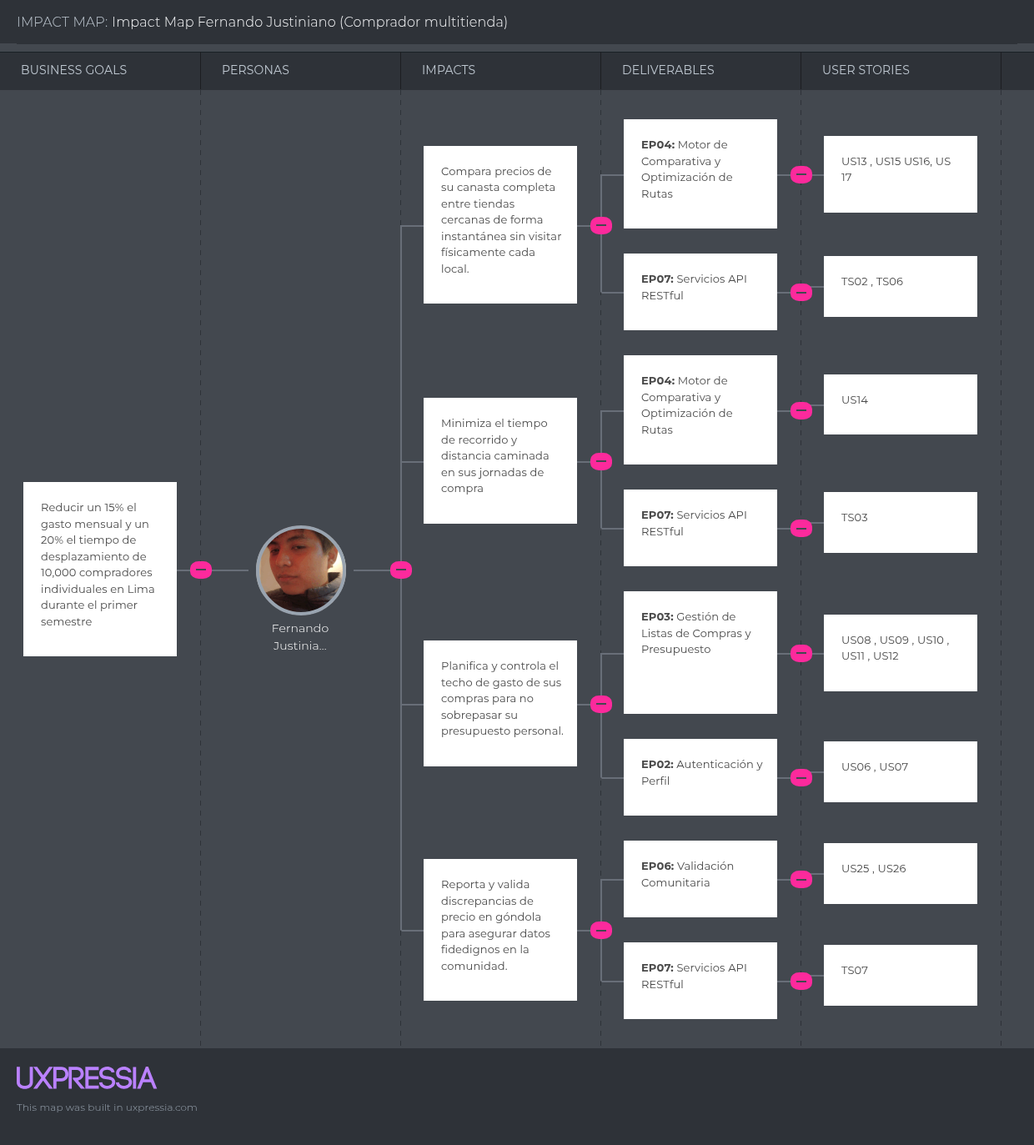
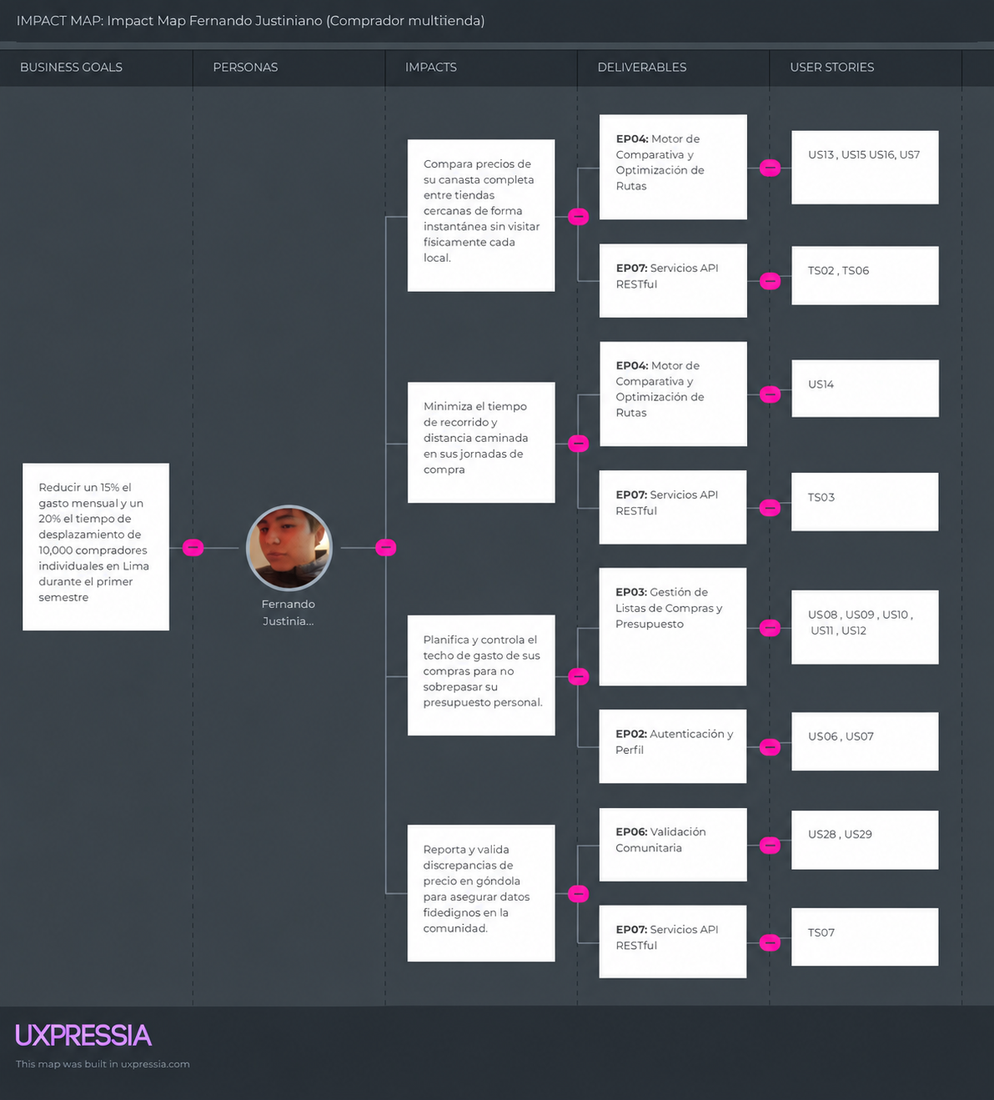
docs(chapter-3): update impact maps, trello evidence and product backlog

diff --git a/docs/informe.md b/docs/informe.md
@@ -201,20 +201,6 @@ Proyecto
 
 # Student Outcome
 
-El curso contribuye al cumplimiento del Student Outcome ABET:
-
-**ABET – EAC - Student Outcome 3**
-
-**Criterio:**  
-
-*Capacidad de comunicarse efectivamente con un rango de audiencias. En el siguiente cuadro se describe las acciones realizadas y enunciados de conclusiones por parte del grupo, que permiten sustentar el haber alcanzado el logro del ABET – EAC - Student Outcome 3.*
-
-| Criterio específico | Acciones realizadas | Conclusiones |
-|---------------------|---------------------|--------------|
-| **Comunica oralmente con efectividad a diferentes rangos de audiencia.** | [Descripción de acciones realizadas] <br> **AV1** <br> [Evidencia] | [Conclusiones] |
-| **Comunica por escrito con efectividad a diferentes rangos de audiencia.** | [Descripción de acciones realizadas] <br> **AV1** <br> [Evidencia] | [Conclusiones] |
-
----
 
 # Capítulo I: Introducción
 
@@ -222,133 +208,23 @@ El curso contribuye al cumplimiento del Student Outcome ABET:
 
 ### 1.1.1. Descripción de la Startup
 
-PeruTech es un equipo de innovación tecnológica integrado por estudiantes de la carrera de Ingeniería de Software. La organización se enfoca en crear soluciones digitales para resolver problemas urbanos cotidianos, principalmente aquellos ligados a la planificación financiera del hogar y la movilidad en la ciudad.
-
-Nuestro proyecto principal nace como una respuesta directa a las dificultades económicas que enfrentan las familias en Lima por el aumento constante de precios. La plataforma busca dar transparencia al mercado minorista, combinando la comparación de precios de productos esenciales con la optimización de rutas de desplazamiento. De esta forma, ayudamos a los consumidores a tomar decisiones de compra más eficientes, ahorrando dinero y tiempo en cada viaje.
-
-*   **Misión:** Apoyar a los hogares de Lima en el control y optimización de su gasto mensual mediante una herramienta digital intuitiva que identifique los precios más bajos y organice los recorridos de compra más convenientes.
-*   **Visión:** Consolidarnos como la plataforma digital líder en compras inteligentes en el Perú, reconocidos por brindar un impacto positivo real en el presupuesto de nuestros usuarios y por nuestra facilidad de uso.
-
 ### 1.1.2. Perfiles de integrantes del equipo
-
-<img src="/assets/foto-Mia.png" width="350" >
-
-Mi nombre es Mía Valentina.
-Poseo experiencia en en el lenguaje C++ y Python, lo que me permite contribuir en el desarrollo de soluciones eficientes. Además, tengo habilidades en la recopilación y análisis de información, lo cual es fundamental para identificar áreas de mejora y optimizar procesos. También tengo conocimientos sobre estructuras de datos, que me permiten organizar y gestionar información de manera efectiva. Mi enfoque se centra en generar soluciones innovadoras y prácticas que aporten valor a los proyectos en los que participo.
-
 
 ## 1.2. Solution Profile
 
 ### 1.2.1. Antecedentes y problemática
-*   **Who? (¿Quién?):**
-    *   *Compradores Independientes:* Jóvenes universitarios, profesionales y adultos independientes (18 a 30 años) con presupuesto acotado y disponibilidad de tiempo reducida que realizan compras frecuentes de menor volumen en establecimientos de cercanía.
-    *   *Administradores del Hogar Familiar:* Padres, madres o encargados del presupuesto doméstico (30 a 55 años) que gestionan listas de compra complejas y de alto volumen (semanales o mensuales) para sus familias y buscan maximizar el ahorro acumulado.
-*   **What? (¿Qué?):** La falta de información clara sobre precios y la ineficiencia al planificar los recorridos de compra en el comercio minorista. Actualmente existe una diferencia marcada entre los precios publicados en internet y los costos reales en los estantes de las tiendas. A esto se suma que las personas no tienen una forma sencilla de comparar el costo total de su lista entre varios comercios cercanos. Esta desconexión genera gastos dobles: se paga más por los productos y se gasta dinero y tiempo extra en desplazamientos mal organizados para intentar conseguir ofertas (BCRP, 2025; INEI, 2026).
-*   **Where? (¿Dónde?):** El problema se concentra en distritos y zonas urbanas de Lima con alta presencia comercial, donde existen múltiples tiendas a pocas cuadras de distancia. La solución está dirigida a personas con acceso a teléfonos inteligentes y a administradores de locales que quieren mejorar la visibilidad de su tienda en su zona cercana.
-*   **When? (¿Cuándo?):** Ocurre cada vez que las familias organizan sus compras de la semana o cuando necesitan reponer productos de manera rápida. La situación se vuelve crítica durante los fines de semana o en días de promociones especiales, cuando el inventario cambia rápido y las ofertas varían sin previo aviso.
-*   **Why? (¿Por qué?):** Principalmente porque los sistemas de información de los grandes comercios son rígidos y no actualizan los precios de cada local en tiempo real para el cliente cercano. Esto hace que el comprador pierda tiempo buscando ofertas que ya no existen, mientras que la tienda pierde clientes potenciales por no comunicar a tiempo sus rebajas o liquidaciones.
-*   **How? (¿Cómo?):** Los usuarios utilizarán la solución en dos momentos: en casa para organizar su lista según su presupuesto, y en la calle para seguir la ruta de compras paso a paso. Por su parte, los administradores de tienda la usarán desde sus computadoras para actualizar precios de productos por vencer y revisar métricas de visitas. La difusión se hará mediante redes sociales, alianzas con comercios y códigos QR en tiendas físicas.
-*   **How much? (¿Cuánto?):** Esta dificultad para ahorrar se da en un contexto donde el costo de la canasta alimentaria mantiene una tendencia al alza en Lima Metropolitana (INEI, 2026). Por esta razón, el 41% de los consumidores prioriza activamente la búsqueda de descuentos (Kantar Worldpanel, 2025). Además, desplazarse entre varias tiendas sin un orden planificado puede incrementar hasta en un 20% los costos de transporte del hogar, un gasto que se puede corregir mediante algoritmos de ruteo eficiente (Sabagh Nejad & Fazekas, 2022).
 
 ### 1.2.2. Lean UX Process
 
-El proceso de Lean UX adoptado por PeruTech busca validar de forma rápida y continua el valor de la plataforma. A través de la iteración constante entre el entendimiento de las necesidades de usuarios y comerciantes, la formulación de supuestos estratégicos y el planteamiento de hipótesis medibles, aseguramos el desarrollo de un producto mínimo viable centrado en resolver ineficiencias reales de tiempo y presupuesto.
-
 #### 1.2.2.1. Lean UX Problem Statements
-
-> **The current state of** retail shopping and grocery planning in Lima Metropolitan Area **has focused mainly on** isolated supermarket discounts, traditional physical price browsing, and delivery apps that charge high service fees without optimizing multi-store routes.  
-> **What existing products/services fail to address is** the lack of a unified system that calculates the true total cost of a shopping trip—combining real-time store prices, multi-stop routing efficiency, and transit expenses—to help shoppers make cost-effective decisions.  
-> **Our product/service will address this gap by** providing a collaborative web platform, **SmartCart**, that processes store prices, inventory updates, transportation costs, and user budget limits to generate the most efficient multi-store shopping route.  
-> **Our initial focus will be** independent young buyers and family household managers in Lima Metropolitan Area.  
-> **We’ll know we are successful when we see** independent buyers and household managers regularly completing multi-store purchases using our generated routes and verified price data.
 
 #### 1.2.2.2. Lean UX Assumptions
 
-##### Assumptions Worksheet
-*   **¿Quién es el usuario?**
-    El sistema atiende a dos perfiles de compradores urbanos: **Compradores Independientes** (jóvenes y profesionales que buscan rapidez y ofertas de cercanía) y **Administradores del Hogar Familiar** (gestores del presupuesto doméstico que planifican compras de mayor volumen).
-*   **¿Dónde encaja nuestro producto en su trabajo o vida?**
-    Para las personas, entra en su rutina cuando preparan la lista del supermercado y cuando salen a hacer las compras. Para el encargado de tienda, se integra en sus labores diarias para dar salida a productos con alto stock.
-*   **¿Qué problemas resuelve nuestro producto?**
-    Elimina la incertidumbre sobre dónde encontrar los precios más bajos y evita viajes innecesarios. A los comercios les resuelve la falta de llegada digital directa hacia los clientes que caminan por su zona.
-*   **¿Cuándo y cómo es usado el producto?**
-    El cliente lo abre en casa para cotizar su lista y en la calle para guiarse de tienda en tienda. El comercio lo utiliza durante el día para publicar ofertas exprés y revisar la llegada de clientes.
-*   **¿Qué características son importantes?**
-    La comparación instantánea de precios, la sugerencia de rutas que no se pasen del presupuesto tope, la opción de que la comunidad confirme los costos reales y un panel sencillo de control para los comercios.
-*   **¿Cómo debe verse nuestro producto y cómo comportarse?**
-    Debe ser una plataforma limpia, moderna y muy rápida para usar en el teléfono. La vista para tiendas debe mostrar gráficos claros y datos útiles para tomar decisiones de venta sin complicaciones.
-
-##### Business Assumptions
-1.  **Creemos que nuestros usuarios necesitan** un servicio digital que evalúe si el dinero que se ahorra en una oferta justifica el gasto y tiempo de ir hasta esa tienda.
-2.  **Estas necesidades se pueden satisfacer mediante** una plataforma web que calcule el costo total de la lista de compras y muestre el recorrido más económico según el medio de transporte del usuario.
-3.  **Nuestros usuarios primarios son** personas que administran los gastos de su hogar y encargados de locales comerciales en áreas urbanas concurridas.
-4.  **El valor principal para el usuario es** pagar menos por su compra total y tardar menos tiempo en la calle; para las tiendas, es atraer clientes de su entorno a través de ofertas puntuales.
-5.  **Generaremos ingresos a través de** planes de suscripción para comercios que deseen promocionar sus productos de forma destacada y acceder a reportes de búsqueda en su zona.
-6.  **Nuestra competencia principal incluye** la búsqueda presencial tradicional, los encartes digitales de una sola marca y los servicios de reparto a domicilio que cobran tarifas adicionales.
-7.  **Nuestra ventaja competitiva radica en** calcular el costo real acumulado (precio de productos más costo de viaje) combinando distintas tiendas en un solo itinerario.
-8.  **El mayor riesgo del producto es** que las oficinas centrales de las cadenas limiten la libertad de los administradores locales para ajustar precios en la plataforma.
-9.  **Mitigaremos este riesgo** demostrando con métricas simples cómo las promociones locales aumentan las ventas y reducen la pérdida de productos en el local.
-
-##### Business Outcome Assumptions
-1.  Conseguir que el 70% de los usuarios registrados realice al menos una compra siguiendo la ruta recomendada durante su primer mes.
-2.  Lograr que más del 40% de los usuarios activos sigan utilizando la plataforma de manera continua mes a mes.
-3.  Demostrar un ahorro efectivo promedio de al menos 15% en el gasto de la canasta de compras de los usuarios.
-4.  Lograr que 6 de cada 10 tiendas participantes confirmen un aumento en la visita de clientes atraídos por las ofertas publicadas.
-
-##### User Assumptions
-1.  **¿Quién es el usuario?** Compradores independientes (18 a 30 años) y administradores del hogar familiar (30 a 55 años) pertenecientes a los niveles socioeconómicos B y C.
-2.  **¿Dónde encaja el producto?** Antes de salir a comprar y durante el recorrido por las tiendas.
-3.  **¿Qué problema resuelve?** Ayuda a elegir la mejor combinación de tiendas sin salirse del presupuesto disponible.
-4.  **¿Cuándo y cómo se usa?** Se consulta 1 o 2 veces por semana al momento de planificar las compras habituales.
-
-##### User Outcome and Benefit Assumptions
-1.  El comprador sabrá exactamente cuánto va a gastar antes de salir de su casa.
-2.  El usuario caminará o viajará solo lo necesario, evitando vueltas innecesarias en la ciudad.
-3.  La tienda logrará vender más rápido los productos con fecha próxima de vencimiento o sobrestock.
-
-##### Feature Assumptions
-1.  **Comparador de Canasta Integral:** Creemos que permitir al usuario armar su lista completa y cruzarla entre varias tiendas mostrará claramente dónde conviene comprar.
-2.  **Calculador de Ruta con Límite de Gasto:** Creemos que sugerir itinerarios respetando el presupuesto máximo fijado evitará sorpresas al momento de pagar.
-3.  **Validación de Precios por Usuarios:** Creemos que permitir que los mismos compradores confirmen si el precio del estante es correcto mantendrá la información confiable.
-4.  **Panel de Ofertas para Comercio:** Creemos que dar una herramienta rápida a los comercios para publicar promociones temporales aumentará el ingreso de personas a sus locales.
-
 #### 1.2.2.3. Lean UX Hypothesis Statements
-*   **Hypothesis Statement 1 (basado en Feature Assumption 1: Comparador de Canasta Integral):**
-    *   **We believe we will achieve** a 15% reduction in overall monthly grocery spending and a platform user retention rate above 40%
-    *   **If** family household managers handling high-volume shopping lists
-    *   **Attain** an accurate, pre-calculated total cost of their entire basket across multiple nearby stores
-    *   **With** a comprehensive multi-store basket comparison engine (**Comparador de Canasta Integral**).
-
-*   **Hypothesis Statement 2 (basado en Feature Assumption 2: Calculador de Ruta con Límite de Gasto):**
-    *   **We believe we will achieve** an average reduction of 25% in total shopping trip duration
-    *   **If** independent young buyers with limited free time and mobility preferences
-    *   **Attain** optimized multi-stop shopping itineraries that strictly respect their maximum budget limit and travel mode
-    *   **With** an interactive route calculator with budget caps (**Calculador de Ruta con Límite de Gasto**).
-
-*   **Hypothesis Statement 3 (basado en Feature Assumption 3: Validador de Precios por Usuarios):**
-    *   **We believe we will achieve** an 80% price verification accuracy rate between reported shelf prices and actual checkout counter costs
-    *   **If** active users from both independent and household manager segments
-    *   **Attain** high trust in platform data accuracy and recognition for contributing real-time price reports
-    *   **With** a crowd-sourced price reporting and verification system (**Validador de Precios por Usuarios**).
-
-*   **Hypothesis Statement 4 (basado en Feature Assumption 4: Panel de Ofertas para Comercio):**
-    *   **We believe we will achieve** a 20% increase in store foot traffic from nearby buyers looking for immediate discounts
-    *   **If** independent buyers seeking short-term deals and promotions
-    *   **Attain** real-time visibility of local store offers within their immediate geographic perimeter
-    *   **With** a fast-publishing promotion dashboard for store managers (**Panel de Ofertas para Comercio**).
 
 #### 1.2.2.4. Lean UX Canvas
 
-<img src="/assets/lean-ux-canvas.png" alt="UPC Logo" width="150"/>
-
 ## 1.3. Segmentos objetivo
-### 1. Compradores Independientes
-Este segmento comprende a jóvenes universitarios, jóvenes profesionales y adultos solteros (de 18 a 30 años) pertenecientes a los niveles socioeconómicos B y C que viven solos o comparten vivienda. Se caracterizan por realizar compras de volumen bajo o medio de manera frecuente y por contar con un tiempo limitado para el abastecimiento. Sus decisiones de compra están fuertemente guiadas por la conveniencia geográfica, el aprovechamiento de descuentos inmediatos y la optimización de sus traslados, desplazándose principalmente a pie o mediante transporte público. Para este grupo, la plataforma resuelve la falta de tiempo y la incertidumbre de precios en establecimientos de proximidad.
-
-### 2. Administradores del Hogar Familiar
-Este grupo está integrado por padres, madres o responsables de la economía doméstica (de 30 a 55 años) en hogares de los niveles socioeconómicos B y C. Su perfil se distingue por gestionar canastas de compra complejas y de volumen elevado (semanales o mensuales), donde pequeñas variaciones de costo unitario representan un impacto significativo en el presupuesto familiar. Tienen una alta disposición a planificar sus recorridos con anticipación y a visitar más de un establecimiento si el ahorro neto justificara el desplazamiento. Para este segmento, la plataforma actúa como una herramienta de control financiero y eficiencia logística.
-
----
 
 # Capítulo II: Requirements Elicitation & Analysis
 
@@ -414,9 +290,18 @@ Este grupo está integrado por padres, madres o responsables de la economía dom
 
 ## 3.1. User Stories
 
-En esta sección se especifican los requisitos funcionales y técnicos del sistema mediante Epics y User Stories, derivados de los hallazgos cualitativos del proceso de Needfinding y del análisis del dominio del problema. La redacción sigue el enfoque de desarrollo centrado en el usuario, estructurando cada descripción bajo el estándar de rol, necesidad y beneficio. 
+En esta sección se especifican los requisitos funcionales y técnicos de la plataforma **Preciazo** (desarrollada por **PeruTech**) mediante Epics, User Stories y Technical Stories, derivados de los hallazgos cualitativos del proceso de Needfinding, las entrevistas a usuarios y el modelado del dominio de negocio. La redacción sigue el enfoque de diseño centrado en el usuario, estructurando cada descripción bajo el estándar formal de rol, necesidad y beneficio (*"Como [rol], deseo [necesidad] para [beneficio]"*).
 
-Asimismo, los criterios de aceptación se definen bajo la sintaxis formal de Gherkin (Given-When-Then), redactados en tercera persona y prescindiendo de detalles de interfaz gráfica (como botones, pantallas o clics), asegurando su comprobabilidad tanto en la experiencia web interactiva como en los contratos de servicio del RESTful API.
+Asimismo, los criterios de aceptación se definen bajo la sintaxis formal de Gherkin (*Given-When-Then*), redactados en tiempo presente, tercera persona y prescindiendo de detalles de interfaz gráfica (como botones, pantallas o clics), asegurando su comprobabilidad tanto en la experiencia web interactiva como en los contratos de servicio del RESTful API.
+
+A continuación, se definen los Epics identificados que agrupan funcionalmente los requisitos del sistema:
+* **EP01: Plataforma Informativa y Landing Page:** Difusión pública del servicio, propuesta de valor y captación de visitantes.
+* **EP02: Gestión de Identidad y Perfiles:** Registro, autenticación y configuración de preferencias para compradores y comercios.
+* **EP03: Planificación y Control Presupuestario:** Elaboración de listas de compras y control financiero preventivo en tiempo real.
+* **EP04: Comparación de Mercado y Ruteo Inteligente:** Comparativa multiestablecimiento, optimización de traslados y bienes sustitutos.
+* **EP05: Gestión de Ofertas y Catálogo Minorista:** Administración simplificada de precios, promociones y existencias para comercios barriales.
+* **EP06: Inteligencia Colectiva y Moderación Comunitaria:** Verificación colaborativa de precios en góndola y reporte de discrepancias.
+* **EP07: Núcleo de Servicios Backend y RESTful API:** Servicios de backend, endpoints de integración y reglas de persistencia.
 
 | Epic / Story ID | Título | Descripción | Criterios de Aceptación | Relacionado con (Epic ID) |
 | :--- | :--- | :--- | :--- | :--- |
@@ -458,68 +343,145 @@ Asimismo, los criterios de aceptación se definen bajo la sintaxis formal de Ghe
 | **TS07** | API de registro de eventos de reporte | Como Developer, deseo implementar un endpoint para almacenar las confirmaciones y discrepancias emitidas por los usuarios sobre los precios. | **Escenario 1: Registro de reporte comunitario.**<br>Dado un requerimiento POST a `/api/v1/reports/prices` con el ID del producto, ID de tienda y nuevo precio, cuando el servicio procesa la solicitud, entonces persiste el reporte y responde con un código HTTP 201 Created.<br><br>**Escenario 2: Reporte duplicado en ventana temporal.**<br>Dado un usuario que intenta emitir múltiples reportes sobre el mismo artículo en menos de 60 segundos, cuando el filtro de seguridad lo detecta, entonces responde con un código HTTP 429 Too Many Requests. | EP07 |
 | **TS08** | API de gestión de promociones de tienda | Como Developer, deseo implementar endpoints CRUD para la administración del ciclo de vida de ofertas emitidas por comerciantes. | **Escenario 1: Creación de promoción.**<br>Dado un requerimiento POST a `/api/v1/promotions` con artículo, precio y vigencia, cuando el servicio confirma la titularidad del local, entonces crea la oferta y responde con un código HTTP 201 Created.<br><br>**Escenario 2: Vigencia incoherente.**<br>Dado un requerimiento cuya fecha de fin es anterior a la fecha de inicio, cuando el modelo valida los datos, entonces responde con un código HTTP 422 Unprocessable Entity. | EP07 |
 
-
 ## 3.2. Impact Mapping
-### Segmento #1 : Comprador Independiente
-<img src="/assets/Impact-Map Fernando-Justiniano-(Comprador-multitienda).png" width=850 />
 
-### Segmento #2 : Administrador del Hogar
-<img src="/assets/Impact-Map-Maria-Salvador-(Comerciante-Minorista).png" width=850 />
+En esta sección se presenta el *Impact Mapping* desarrollado para alinear los objetivos estratégicos de negocio con las capacidades funcionales de la plataforma **Preciazo** de **PeruTech**. Mediante este artefacto visual se establece la trazabilidad formal entre los objetivos medibles de la organización (*Business Goals* formulados bajo el estándar SMART), los actores clave (*Actors/Personas*), los cambios esperados de comportamiento (*Impacts*), las entregas o soluciones de software (*Deliverables*) y las historias de usuario asociadas en formato canónico (*User Stories*).
 
-## 3.3. Product Backlog     
-| # Orden | User Story Id | Título | Descripción | Story Points (1 / 2 / 3 / 5 / 8) |
-|---|---|---|---|---|
-| 1 | US01 | Landing: Propuesta de valor | Como visitante, quiero ver cómo la plataforma optimiza el gasto y la ruta para ahorrar dinero y tiempo. | 1 |
-| 2 | US02 | Landing: Segmentos Objetivo | Como visitante, quiero identificar si la plataforma está diseñada para mis necesidades de compra. | 1 |
-| 3 | US03 | Landing: Comercios Aliados | Como visitante, quiero ver qué cadenas y bodegas están registradas para saber si mis tiendas cercanas participan. | 1 |
-| 4 | US04 | Landing: Registro de Interés | Como visitante, quiero dejar mi correo para recibir notificaciones del lanzamiento. | 2 |
-| 5 | US05 | Registro: Cuenta Personal | Como comprador independiente, quiero crear una cuenta usando mi correo para guardar mis rutas peatonales habituales. | 3 |
-| 6 | US06 | Registro: Shared Household | Como administrador del hogar, quiero vincular mi cuenta con otros miembros de mi familia para coordinar las compras de la casa. | 5 |
-| 7 | US07 | Registro: Selección de Tiendas Favoritas | Como comprador independiente, quiero guardar mis bodegas y tiendas de conveniencia habituales para recibir alertas de sus promociones. | 2 |
-| 8 | US08 | Login de Sistema | Como comprador independiente, quiero iniciar sesión de forma rápida para acceder a mis listas y presupuesto guardado. | 2 |
-| 9 | US09 | Pantry Stock: Agregar Ítem | Como administrador del hogar, quiero registrar productos en la despensa familiar para controlar el inventario de la casa. | 3 |
-| 10 | US10 | Pantry Stock: Lector de Códigos | Como administrador del hogar, quiero escanear el código de barras de los productos comprados para ingresarlos rápidamente a la despensa. | 5 |
-| 11 | US11 | Pantry Stock: Producto Agotado | Como administrador del hogar, quiero marcar un producto como agotado para reponerlo en la siguiente compra familiar. | 2 |
-| 12 | US12 | Pantry Stock: Alerta de Caducidad | Como administrador del hogar, quiero recibir alertas sobre productos próximos a vencer para evitar el desperdicio de alimentos en casa. | 3 |
-| 13 | US13 | Shopping List: Creación Básica | Como comprador independiente, quiero crear listas de compras rápidas para organizar mis faltantes de la semana. | 2 |
-| 14 | US14 | Shopping List: Desde Despensa | Como administrador del hogar, quiero que los ítems agotados de la despensa pasen automáticamente a la lista familiar. | 3 |
-| 15 | US15 | Budget Limit: Configuración | Como comprador independiente, quiero fijar un límite presupuestario quincenal para no gastar de más en mis compras de volumen bajo. | 2 |
-| 16 | US16 | Shopping List: Compras Recurrentes | Como administrador del hogar, quiero guardar mi canasta mensual como plantilla para no reescribir la lista compleja cada mes. | 3 |
-| 17 | US17 | Budget Limit: Alerta de Exceso | Como comprador independiente, quiero recibir una alerta cuando el total de mi lista supere el presupuesto fijado. | 3 |
-| 18 | US18 | Price Benchmark: Búsqueda Rápida | Como comprador independiente, quiero buscar un artículo específico para saber al instante en qué tienda cercana está más barato. | 3 |
-| 19 | US19 | Price Benchmark: Comparador Integral | Como administrador del hogar, quiero comparar mi canasta familiar completa entre varios supermercados para encontrar el menor costo total. | 8 |
-| 20 | US20 | Price Benchmark: Historial de Precios | Como administrador del hogar, quiero ver el historial de precios de un producto para verificar si la oferta del supermercado es real. | 5 |
-| 21 | US21 | Price Benchmark: Marcas Sustitutas | Como comprador independiente, quiero recibir sugerencias de marcas equivalentes más económicas para reducir el total de mi compra diaria. | 5 |
-| 22 | US22 | Price Benchmark: Filtro por Radio | Como comprador independiente, quiero filtrar precios dentro de un radio caminable para no alejarme demasiado de mi zona. | 3 |
-| 23 | US23 | Rutas: Optimización Peatonal | Como comprador independiente, quiero obtener la ruta a pie más corta entre bodegas y supermercados para optimizar mis traslados. | 8 |
-| 24 | US24 | Rutas: Optimización Vehicular | Como administrador del hogar, quiero una ruta en auto eficiente que conecte múltiples comercios para concretar la compra familiar. | 8 |
-| 25 | US25 | Aisle Routing: Orden de Pasillos | Como comprador independiente, quiero que mi lista se ordene por pasillos del local para realizar mi compra en el menor tiempo posible. | 5 |
-| 26 | US26 | Shopping Run: Modo Compra | Como administrador del hogar, quiero activar el modo de compra interactivo para ir tachando los productos en el carrito de supermercado. | 5 |
-| 27 | US27 | Shopping Run: Consolidación de Gasto | Como comprador independiente, quiero finalizar la jornada de compra para restar el monto gastado de mi presupuesto disponible. | 3 |
-| 28 | US28 | Rutas: Recálculo en Vivo | Como administrador del hogar, quiero recalcular la ruta si encuentro una tienda cerrada para no perder tiempo en el recorrido vehicular. | 8 |
-| 29 | US29 | Crowdsourcing: Reportar Error | Como comprador independiente, quiero reportar si el precio en la góndola no coincide con el de la app para ayudar a la comunidad. | 3 |
-| 30 | US30 | Crowdsourcing: Subir Evidencia | Como comprador independiente, quiero subir una foto del precio en etiqueta para validar mis reportes de la comunidad. | 5 |
-| 31 | US31 | Crowdsourcing: Votación de Precios | Como comprador independiente, quiero confirmar los precios reportados por otros usuarios para mantener la plataforma actualizada. | 3 |
-| 32 | US32 | Crowdsourcing: Gamificación | Como comprador independiente, quiero acumular puntos y medallas por mis aportes para obtener reconocimiento en la plataforma. | 5 |
-| 33 | US33 | Exploración: Descuentos de Proximidad | Como comprador independiente, quiero ver los productos en liquidación en comercios cercanos para aprovechar promociones relámpago. | 3 |
-| 34 | US34 | Notificaciones: Ofertas Flash | Como comprador independiente, quiero recibir alertas inmediatas sobre ofertas relámpago en tiendas cercanas para comprar con mayor descuento. | 5 |
-| 35 | US35 | Filtros: Disponibilidad de Stock | Como administrador del hogar, quiero verificar que las tiendas de mi ruta tengan stock disponible para no hacer viajes en vano. | 3 |
-| 36 | US36 | Alertas: Inconsistencia de Datos | Como comprador independiente, quiero ver si un precio reportado tiene advertencia de imprecisión antes de trasladarme a la tienda. | 3 |
-| 37 | US37 | Seguridad: Sesión Persistente | Como comprador independiente, quiero mantener mi sesión iniciada para acceder rápido a mi lista al estar en la tienda. | 3 |
-| 38 | US38 | Exploración: Carga Fluida | Como administrador del hogar, quiero navegar de forma fluida por el catálogo extenso para armar la lista familiar sin interrupciones. | 5 |
-| 39 | US39 | Lista de Compras: Sincronización Automática | Como comprador independiente, quiero que mis cambios en la lista se guarden automáticamente en la nube para no perder mis productos. | 5 |
-| 40 | US40 | Rutas: Alerta de Tráfico | Como administrador del hogar, quiero recibir alertas de tráfico en mi ruta vehicular para cambiar el orden de las tiendas. | 5 |
-| 41 | US41 | Notificaciones: Bajada de Precios | Como comprador independiente, quiero recibir alertas cuando un producto de mi lista baje de precio en un comercio cercano. | 5 |
-| 42 | US42 | Comunidad: Mis Reportes | Como comprador independiente, quiero consultar el historial de mis aportes comunitarios para saber cuáles fueron aprobados. | 2 |
-| 43 | US43 | UX: Manejo de Errores | Como comprador independiente, quiero ver mensajes claros si pierdo la conexión a internet para saber cómo reintentar mi búsqueda. | 2 |
-| 44 | US44 | Despensa: Sincronización en Tiempo Real | Como administrador del hogar, quiero que las actualizaciones de la despensa se reflejen al instante en los teléfonos de mi familia para no duplicar compras. | 5 |
-| 45 | US45 | Tendencias: Lo Más Buscado en la Zona | Como administrador del hogar, quiero ver los productos más buscados con descuento en mi distrito para aprovechar las tendencias de ahorro local. | 5 |
-| 46 | US46 | Rutas: Tiempos de Traslado | Como comprador independiente, quiero ver la distancia y tiempo estimado a pie versus transporte público para elegir el medio de viaje. | 3 |
-| 47 | US47 | Privacidad: Control de Ubicación | Como comprador independiente, quiero activar o desactivar la ubicación en segundo plano para controlar mi privacidad y consumo de batería. | 2 |
-| 48 | US48 | Shopping List: Modo Offline | Como administrador del hogar, quiero poder tachar e ingresar productos en mi lista aunque no tenga señal dentro del supermercado. | 5 |
-| 49 | US49 | Price Benchmark: Exportar a WhatsApp | Como comprador independiente, quiero exportar mi lista optimizada a WhatsApp para compartirla con mi compañero de departamento. | 3 |
-| 50 | US50 | Pantry Stock: Consumo Histórico | Como administrador del hogar, quiero ver gráficos de mis gastos e inventario de los últimos 3 meses para evaluar el ahorro del hogar. | 5 |
+### Business Goals del Proyecto (Criterios SMART)
+* **BG01:** Reducir en un 15% el gasto promedio quincenal de canasta básica y en un 20% el tiempo invertido en desplazamientos para 10,000 compradores urbanos independientes en Lima Metropolitana durante los primeros 6 meses de operación.
+* **BG02:** Incrementar la base de retención activa mensual (MAU) de compradores al 35% en los primeros 4 meses mediante el uso de listas de compras con presupuesto dinámico.
+* **BG03:** Afiliar a 500 comercios minoristas locales (bodegas y minimarkets) en distritos de alta densidad comercial durante los primeros 6 meses, logrando que al menos el 60% actualice su catálogo semanalmente.
+* **BG04:** Incrementar en un 20% la rotación de mercancías y liquidaciones en tiendas de proximidad afiliadas durante el primer trimestre de suscripción activa.
+
 ---
+
+### 3.2.1. Impact Mapping - Segmento #1: Comprador Independiente
+
+Este mapa articula cómo el actor **Fernando Justiniano** colabora en la consecución de las metas de ahorro, reducción de tiempos y fidelización del comprador.
+
+<img src="../assets/Impact-Map Fernando-Justiniano-(Comprador-multitienda).png" width="850" />
+
+*Figura 3.1: Impact Mapping para el Segmento Comprador Independiente.*
+
+#### Desglose de Relaciones y User Stories Asociadas:
+* **Impacto 1: Compara precios de su canasta completa entre tiendas cercanas de forma instantánea sin visitar físicamente cada local.**
+  * *Deliverable: EP04 - Motor de Comparativa y Optimización de Rutas.*
+    * **US13:** Como comprador independiente, deseo comparar el costo total de mi lista entre locales comerciales cercanos para identificar el menor costo de compra.
+    * **US15:** Como comprador independiente, deseo recibir recomendaciones de productos alternativos más económicos para disminuir el monto total a pagar.
+    * **US16:** Como comprador independiente, deseo comparar el costo por unidad de medida (kilogramo o litro) para evaluar presentaciones con distinto gramaje.
+    * **US17:** Como comprador independiente, deseo filtrar comercios dentro de un radio caminable específico para evitar traslados excesivamente largos.
+  * *Deliverable: EP07 - Servicios API RESTful.*
+    * **TS02:** Como Developer, deseo proveer un endpoint para computar el costo total de una lista de productos en los comercios registrados en un radio geográfico.
+    * **TS06:** Como Developer, deseo proveer un endpoint con paginación para consultar artículos disponibles por categoría y distrito.
+
+* **Impacto 2: Minimiza el tiempo de recorrido y distancia caminada en sus jornadas de compra.**
+  * *Deliverable: EP04 - Motor de Comparativa y Optimización de Rutas.*
+    * **US14:** Como comprador independiente, deseo obtener un itinerario secuencial de paradas óptimas para reducir mi tiempo de traslado y costo de transporte.
+  * *Deliverable: EP07 - Servicios API RESTful.*
+    * **TS03:** Como Developer, deseo proveer un endpoint que ordene una secuencia de establecimientos según eficiencia de traslado.
+
+* **Impacto 3: Planifica y controla el techo de gasto de sus compras para no sobrepasar su presupuesto personal.**
+  * *Deliverable: EP03 - Gestión de Listas de Compras y Presupuesto.*
+    * **US08:** Como comprador independiente, deseo crear una lista de productos requeridos para estructurar mi jornada de abastecimiento.
+    * **US09:** Como comprador independiente, deseo buscar y agregar artículos específicos a mi lista para consolidar mi canasta básica.
+    * **US10:** Como comprador independiente, deseo configurar un tope de gasto para mi lista de compras para controlar mi economía personal.
+    * **US11:** Como comprador independiente, deseo recibir una advertencia cuando la sumatoria de mi lista supere el presupuesto establecido para ajustar mi selección.
+    * **US12:** Como comprador independiente, deseo marcar los artículos conforme los coloco en mi canasta para verificar el gasto acumulado en tiempo real.
+  * *Deliverable: EP02 - Autenticación y Perfil.*
+    * **US06:** Como comprador independiente, deseo iniciar sesión con mis credenciales registradas para gestionar mis listas y presupuesto.
+    * **US07:** Como comprador independiente, deseo guardar mis establecimientos de confianza para priorizar sus ofertas en mis consultas diarias.
+
+* **Impacto 4: Reporta y valida discrepancias de precio en góndola para asegurar datos fidedignos en la comunidad.**
+  * *Deliverable: EP06 - Validación Comunitaria.*
+    * **US28:** Como comprador independiente, deseo reportar cuando un precio en góndola difiere del valor registrado en el sistema para colaborar con la comunidad.
+    * **US29:** Como comprador independiente, deseo validar los reportes de precios efectuados por otros usuarios para consolidar la confiabilidad de la información.
+  * *Deliverable: EP07 - Servicios API RESTful.*
+    * **TS07:** Como Developer, deseo implementar un endpoint para almacenar las confirmaciones y discrepancias emitidas por los usuarios sobre los precios.
+
+---
+
+### 3.2.2. Impact Mapping - Segmento #2: Comerciante Minorista
+
+Este mapa articula cómo el actor **Daniel Palomino** contribuye a alcanzar las metas de digitalización barrial, captación de clientela y rotación de stock.
+
+<img src="../assets/Impact-Map-Daniel-Palomino-(Comerciante-minorista).jpeg" width="850" />
+
+*Figura 3.2: Impact Mapping para el Segmento Comerciante Minorista.*
+
+#### Desglose de Relaciones y User Stories Asociadas:
+* **Impacto 1: Registra y formaliza la presencia de su local en el mapa comercial para ser visible ante los compradores de su zona.**
+  * *Deliverable: EP02 - Autenticación y Perfil.*
+    * **US21:** Como comerciante minorista, deseo registrar los datos de mi establecimiento para integrar mi negocio al mapa comercial de la plataforma.
+    * **US22:** Como comerciante minorista, deseo indicar los horarios de atención de mi local para que los compradores conozcan cuándo pueden acudir.
+  * *Deliverable: EP07 - Servicios API RESTful.*
+    * **TS04:** Como Developer, deseo integrar un servicio de verificación de RUC contra entidades oficiales para constatar la vigencia legal de los comercios afiliados.
+
+* **Impacto 2: Mantiene actualizado su catálogo de precios y stock de forma ágil para no perder ventas ni generar falsas expectativas.**
+  * *Deliverable: EP05 - Catálogo y Gestión Comercial.*
+    * **US23:** Como comerciante minorista, deseo registrar y actualizar los precios de venta de mis productos para mantener informados a los compradores de la zona.
+    * **US25:** Como comerciante minorista, deseo marcar artículos sin disponibilidad física en mi local para evitar desplazamientos infructuosos de los clientes.
+    * **US26:** Como comerciante minorista, deseo importar una lista estructurada de artículos y precios para actualizar mi inventario de forma ágil.
+  * *Deliverable: EP07 - Servicios API RESTful.*
+    * **TS05:** Como Developer, deseo proveer un endpoint para la actualización en bloque de inventario de tiendas mediante solicitudes en formato JSON.
+
+* **Impacto 3: Lanza promociones relámpago e incentivos para acelerar la rotación de artículos y reducir mermas en tiendas de proximidad.**
+  * *Deliverable: EP05 - Catálogo y Gestión Comercial.*
+    * **US24:** Como comerciante minorista, deseo publicar promociones por tiempo limitado para acelerar la rotación de artículos y atraer mayor afluencia.
+  * *Deliverable: EP07 - Servicios API RESTful.*
+    * **TS08:** Como Developer, deseo implementar endpoints CRUD para la administración del ciclo de vida de ofertas emitidas por comerciantes.
+
+* **Impacto 4: Evalúa el impacto de sus precios e interacción recibida en las rutas de compra de los vecinos para optimizar su estrategia comercial.**
+  * *Deliverable: EP05 - Catálogo y Gestión Comercial.*
+    * **US27:** Como comerciante minorista, deseo consultar métricas de visualización de mis promociones para evaluar el impacto de mis precios publicados.
+
+
+## 3.3. Product Backlog
+
+En esta sección se presenta el *Product Backlog* priorizado y estimado para la plataforma **Preciazo**, desarrollado por **PeruTech**. La priorización de los requisitos responde estrictamente al valor entregado al negocio y a los usuarios (*Business Value First*). Cumpliendo con los lineamientos del marco de trabajo Scrum y las directivas académicas, las historias vinculadas a la Landing Page se sitúan al inicio para viabilizar la captación temprana de usuarios en el primer sprint. Posteriormente, se integran las funcionalidades nucleares de cálculo comparativo de canasta, optimización de trayectos y gestión comercial para bodegas y minimarkets, relegando las tareas de autenticación y parametrización avanzada a etapas posteriores.
+
+La estimación del esfuerzo de cada ítem fue establecida mediante la dinámica de *Planning Poker*, aplicando la secuencia estándar de Fibonacci para Story Points (1, 2, 3, 5 y 8 SP).
+
+| # Orden | User Story Id | Título | Descripción | Story Points (1 / 2 / 3 / 5 / 8) |
+| :---: | :---: | :--- | :--- | :---: |
+| 1 | **US01** | Landing: Propuesta de valor | Como visitante, deseo visualizar la propuesta central del servicio para comprender cómo optimizar mis compras y tiempos de traslado. | 1 |
+| 2 | **US02** | Landing: Segmentos objetivo | Como visitante, deseo conocer a qué perfiles está orientada la solución para identificar si resuelve mis necesidades de abastecimiento o comercio. | 1 |
+| 3 | **US03** | Landing: Red de comercios aliados | Como visitante, deseo visualizar qué establecimientos y zonas cuentan con cobertura para verificar la disponibilidad del servicio. | 1 |
+| 4 | **US04** | Landing: Registro de interés | Como visitante, deseo suscribir mi correo electrónico para recibir notificaciones sobre el lanzamiento y novedades de la plataforma. | 2 |
+| 5 | **US05** | Landing: Preguntas frecuentes y soporte | Como visitante, deseo consultar una sección de preguntas frecuentes para aclarar el modelo de servicio y los canales de contacto. | 2 |
+| 6 | **US13** | Comparativa multiestablecimiento | Como comprador independiente, deseo comparar el costo total de mi lista entre locales comerciales cercanos para identificar el menor costo de compra. | 8 |
+| 7 | **US14** | Cálculo de ruta de compra eficiente | Como comprador independiente, deseo obtener un itinerario secuencial de paradas óptimas para reducir mi tiempo de traslado y costo de transporte. | 8 |
+| 8 | **US17** | Búsqueda por filtros de proximidad | Como comprador independiente, deseo filtrar comercios dentro de un radio caminable específico para evitar traslados excesivamente largos. | 3 |
+| 9 | **US15** | Sugerencia de bienes sustitutos | Como comprador independiente, deseo recibir recomendaciones de productos alternativos más económicos para disminuir el monto total a pagar. | 5 |
+| 10 | **US16** | Comparación por unidad de medida | Como comprador independiente, deseo comparar el costo por unidad de medida (kilogramo o litro) para evaluar presentaciones con distinto gramaje. | 3 |
+| 11 | **US21** | Registro y afiliación de tienda | Como comerciante minorista, deseo registrar los datos de mi establecimiento para integrar mi negocio al mapa comercial de la plataforma. | 5 |
+| 12 | **US23** | Publicación de precios en catálogo | Como comerciante minorista, deseo registrar y actualizar los precios de venta de mis productos para mantener informados a los compradores de la zona. | 5 |
+| 13 | **US24** | Publicación de ofertas de tienda | Como comerciante minorista, deseo publicar promociones por tiempo limitado para acelerar la rotación de artículos y atraer mayor afluencia. | 3 |
+| 14 | **US25** | Reporte de agotamiento de stock | Como comerciante minorista, deseo marcar artículos sin disponibilidad física en mi local para evitar desplazamientos infructuosos de los clientes. | 2 |
+| 15 | **US22** | Configuración de horarios comerciales | Como comerciante minorista, deseo indicar los horarios de atención de mi local para que los compradores conozcan cuándo pueden acudir. | 2 |
+| 16 | **US08** | Creación de lista de compras | Como comprador independiente, deseo crear una lista de productos requeridos para estructurar mi jornada de abastecimiento. | 2 |
+| 17 | **US09** | Agregado de ítems a la lista | Como comprador independiente, deseo buscar y agregar artículos específicos a mi lista para consolidar mi canasta básica. | 3 |
+| 18 | **US10** | Fijación de presupuesto límite | Como comprador independiente, deseo configurar un tope de gasto para mi lista de compras para controlar mi economía personal. | 2 |
+| 19 | **US11** | Alerta de rebase presupuestario | Como comprador independiente, deseo recibir una advertencia cuando la sumatoria de mi lista supere el presupuesto establecido para ajustar mi selección. | 3 |
+| 20 | **US12** | Modo de jornada de compra en local | Como comprador independiente, deseo marcar los artículos conforme los coloco en mi canasta para verificar el gasto acumulado en tiempo real. | 5 |
+| 21 | **US20** | Recálculo dinámico de ruta | Como comprador independiente, deseo reordenar mi trayecto de compra si un local se encuentra cerrado o inaccesible. | 5 |
+| 22 | **US18** | Registro de compras recurrentes | Como comprador independiente, deseo guardar una canasta base como plantilla para reutilizarla en compras quincenales sin reingresar productos. | 3 |
+| 23 | **US19** | Historial de precios de producto | Como comprador independiente, deseo consultar la evolución histórica del valor de un bien para evaluar la conveniencia de una oferta. | 3 |
+| 24 | **US26** | Carga estructurada de catálogo | Como comerciante minorista, deseo importar una lista estructurada de artículos y precios para actualizar mi inventario de forma ágil. | 5 |
+| 25 | **US27** | Panel de rendimiento comercial | Como comerciante minorista, deseo consultar métricas de visualización de mis promociones para evaluar el impacto de mis precios publicados. | 3 |
+| 26 | **US28** | Reporte colaborativo de discrepancia | Como comprador independiente, deseo reportar cuando un precio en góndola difiere del valor registrado en el sistema para colaborar con la comunidad. | 3 |
+| 27 | **US29** | Confirmación comunitaria de datos | Como comprador independiente, deseo validar los reportes de precios efectuados por otros usuarios para consolidar la confiabilidad de la información. | 3 |
+| 28 | **US06** | Autenticación y acceso | Como comprador independiente, deseo iniciar sesión con mis credenciales registradas para gestionar mis listas y presupuesto. | 3 |
+| 29 | **US07** | Gestión de comercios favoritos | Como comprador independiente, deseo guardar mis establecimientos de confianza para priorizar sus ofertas en mis consultas diarias. | 2 |
+
+---
+
+### Evidencia del Tablero y Enlace Público
+
+> **Enlace público al Product Backlog:**  
+> [Tablero de Gestión Ágil - Preciazo (Trello)](https://trello.com/b/NhH0tIyG/product)
+
+![Product Backlog en Herramienta](../assets/Trello.png)
+> *Figura 3.3: Captura del Product Backlog configurado, estimado y priorizado en la herramienta de gestión ágil.*
 
 # Capítulo IV: Product Design
 
